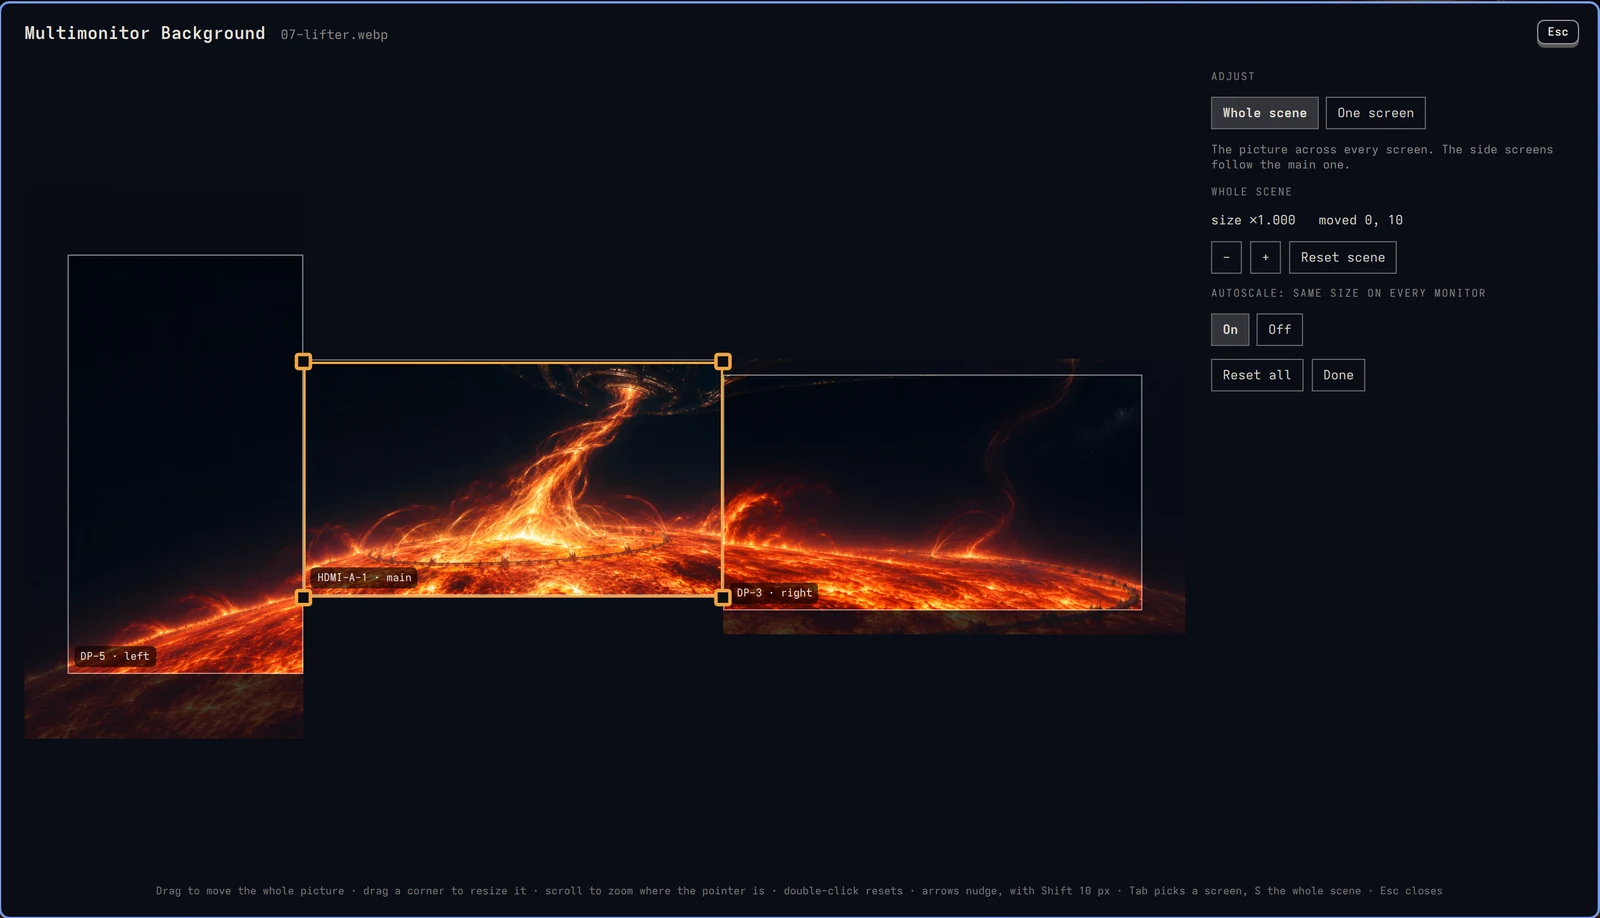
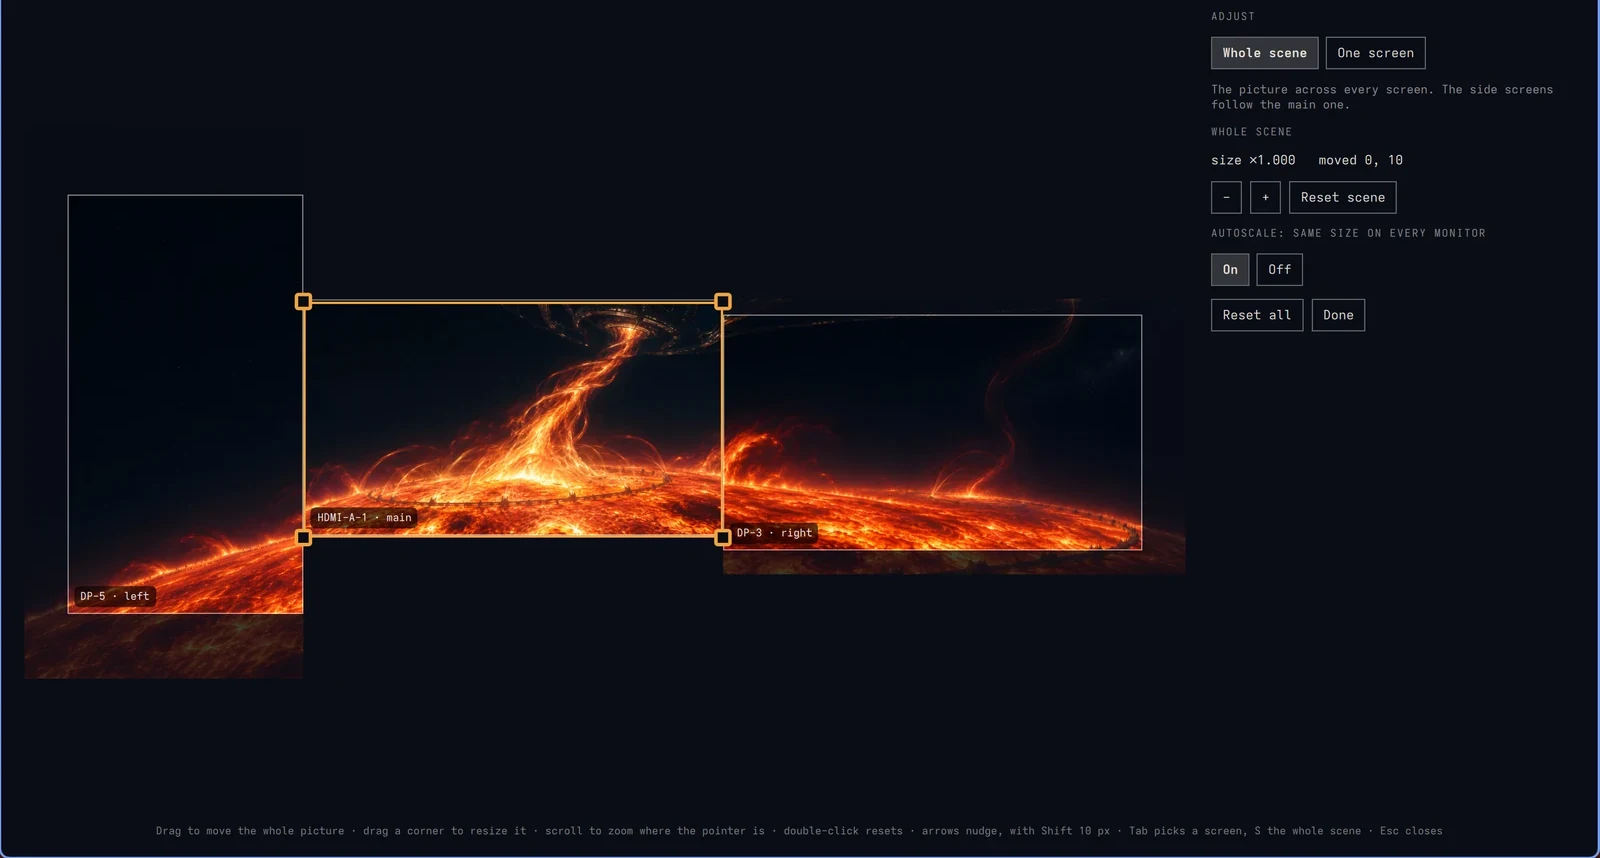
Leave wallpapers without panels alone
The scene and screen settings now apply only to wallpapers that have
panels. Any other wallpaper, such as a stock theme's, fills each screen
exactly as Omarchy's own background shows it, so tuning a scene never
distorts the rest. The editor says so when such a wallpaper is on
screen and does not offer to move it.

The editor screenshot loses its title row, which still showed the old
name.

diff --git a/Editor.qml b/Editor.qml
@@ -37,6 +37,9 @@ Item {
   property bool gesturing: false
 
   readonly property string pluginId: "thepixelgardener.panomarchy"
+  // Whether the wallpaper on screen has panels; only then is there a scene
+  // to adjust. A plain wallpaper fills every screen as Omarchy shows it.
+  readonly property bool spanned: !!service && service.isSpan(service.displayedBackground) === true
   readonly property string mainName: service && service.mainScreen ? service.mainScreen.name : ""
   readonly property color accent: Commons.Color.accent
   readonly property color fg: Commons.Color.foreground
@@ -101,7 +104,7 @@ Item {
   }
 
   function targetBox() {
-    if (!service) return null
+    if (!service || !spanned) return null
     if (mode === "scene") return service.mainWallpaperRect(service.displayedBackground)
     var screen = screenByName(selected)
     var view = service.screenView(selected)
@@ -109,7 +112,7 @@ Item {
   }
 
   function applyTransform(t, deferWrite) {
-    if (!service) return
+    if (!service || !spanned) return
     var scale = Math.round(Math.max(0.2, Math.min(5, t.scale)) * 1000) / 1000
     var clean = {
       x: Math.round(t.x) === 0 ? undefined : Math.round(t.x),
@@ -427,6 +430,7 @@ Item {
           MouseArea {
             id: mover
             anchors.fill: parent
+            enabled: root.spanned
             acceptedButtons: Qt.LeftButton
             cursorShape: pressed ? Qt.ClosedHandCursor : Qt.OpenHandCursor
             property var start: null
@@ -543,6 +547,16 @@ Item {
 
           readonly property var screenObj: root.screenByName(root.selected)
           readonly property var t: root.service ? root.service.transformOf(root.mode === "scene" ? root.service.sceneConfig() : root.service.screenConfig(root.selected)) : ({ scale: 1, x: 0, y: 0 })
+
+          Text {
+            visible: !root.spanned
+            width: parent.width
+            wrapMode: Text.Wrap
+            text: "This wallpaper has no panels, so every screen shows it as Omarchy does. Your adjustments are kept for wallpapers that span the screens, such as Gargantuan's."
+            color: root.accent
+            font.family: Style.font.family
+            font.pixelSize: Style.font.body * 0.9
+          }
 
           SectionLabel { text: "Adjust" }
           ButtonGroup {

diff --git a/Background.qml b/Background.qml
@@ -483,6 +483,23 @@ Item {
     return real.substring(0, slash) + "/spans/" + file.substring(0, dot) + "/" + side + file.substring(dot)
   }
 
+  // Whether a wallpaper brings panels of its own; undefined until both
+  // panel files have been looked for. Only such a wallpaper is a scene: the
+  // scene and screen settings apply to it, and every other wallpaper fills
+  // each screen exactly as Omarchy's own background does.
+  function isSpan(path) {
+    var found = false
+    var sides = ["left", "right"]
+    for (var i = 0; i < sides.length; i++) {
+      var panelPath = spanPanelPath(path, sides[i])
+      if (!panelPath) continue
+      var size = nativeSizes[panelPath]
+      if (size === undefined) return undefined
+      if (size.width > 0) found = true
+    }
+    return found
+  }
+
   // A panel that will not load falls back to the wallpaper.
   function spanPanelFailed(panelPath) {
     var known = Object.assign({}, nativeSizes)
@@ -1060,6 +1077,15 @@ Item {
       // depends on have been read, so nothing is ever decoded twice.
       function view(path) {
         if (!path || !sized) return null
+        var spanned = root.isSpan(path)
+        if (spanned === undefined) return null
+        if (!spanned) {
+          var plainSize = root.nativeSizes[path]
+          if (plainSize === undefined) return null
+          var plain = root.coverRect(plainSize, width, height)
+          return { file: path, x: plain.x, y: plain.y, w: plain.w, h: plain.h, covers: true, aligned: false,
+                   how: "plain " + Math.round(plain.w) + "x" + Math.round(plain.h) + " at " + Math.round(plain.x) + "," + Math.round(plain.y) }
+        }
         var file = path
         if (role === "left" || role === "right") {
           var panelPath = root.spanPanelPath(path, role)

diff --git a/README.md b/README.md
@@ -98,6 +98,8 @@ omarchy-shell background setScreen DP-3 y auto      # remove one setting
 omarchy-shell background resetScreens               # back to automatic, no moves
 ```
 
+The scene and screen settings apply to wallpapers that have panels, the ones that span your screens; any other wallpaper fills each screen exactly as Omarchy shows it, so tuning a scene never distorts the rest of your wallpapers.
+
 `x` and `y` are in logical pixels. The scene is sized about the main screen's centre. A screen's own `scale` comes on top of autoscale and pivots on the seam it shares with the main screen, or on its centre if it shows a picture of its own. A picture that only fills its screen is enlarged as needed, so a move never shows an empty edge; elsewhere a gap shows a blurred copy of the picture.
 
 The settings live in `~/.config/omarchy/panomarchy.json` and apply as soon as the file is saved, so you can also edit it by hand:
